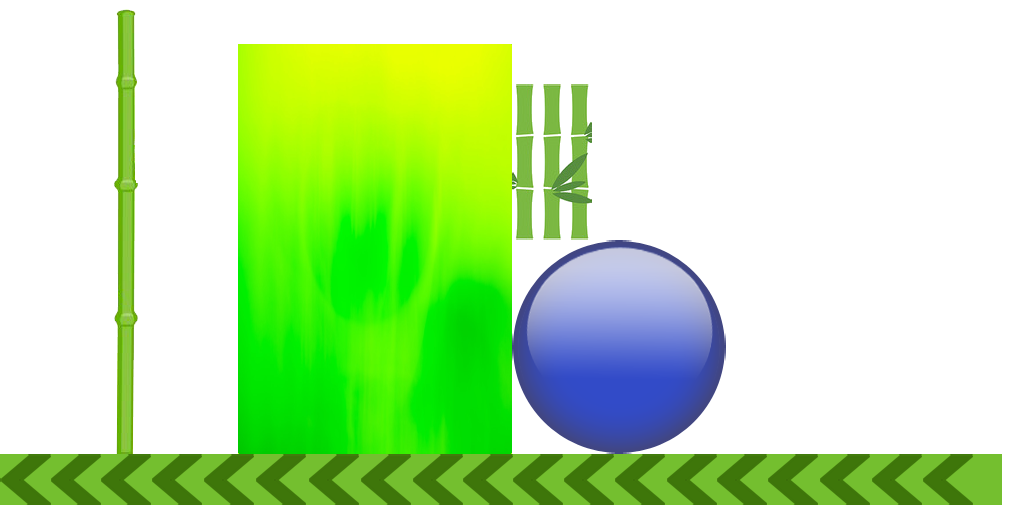
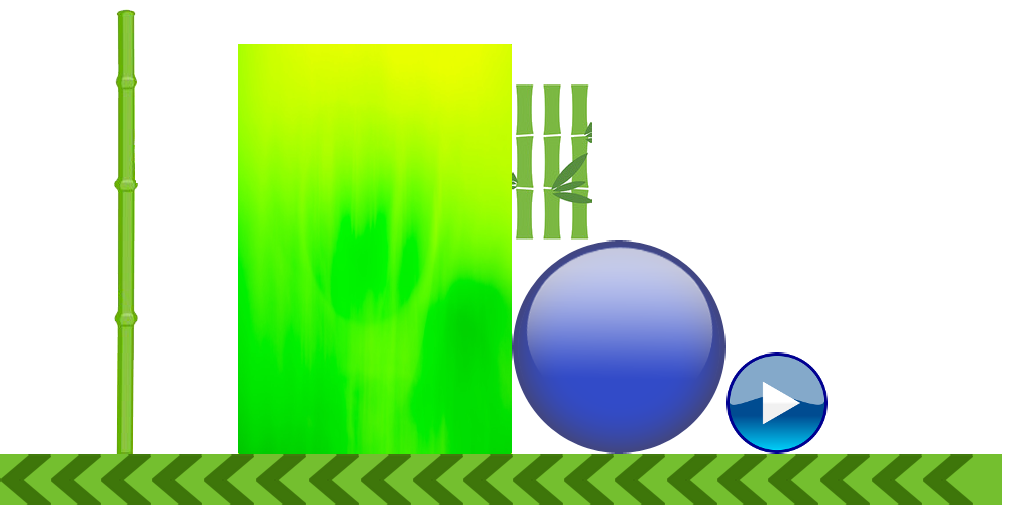
MainScreen added.

Changed region(s): [[0.6875, 0.6875, 0.8125, 0.9062]]

diff --git a/core/src/com/demonhunts/throughit/gameworld/GameRenderer.java b/core/src/com/demonhunts/throughit/gameworld/GameRenderer.java
@@ -128,19 +128,19 @@ public class GameRenderer {
     }
 
     private void drawPipes() {
-        batcher.draw(bar, pipe1.getX(), pipe1.getY(), pipe1.getWidth(),
+        batcher.draw(bar, pipe1.getX(), pipe1.getY(), pipe1.getWidth()+12,
                 pipe1.getHeight());
         batcher.draw(bar, pipe1.getX(), pipe1.getY() + pipe1.getHeight() + 45,
-                pipe1.getWidth(), midPointY +   (pipe1.getHeight() +45));
+                pipe1.getWidth()+12, midPointY +   (pipe1.getHeight() +45));
 
-        batcher.draw(bar, pipe2.getX(), pipe2.getY(), pipe2.getWidth(),
+        batcher.draw(bar, pipe2.getX(), pipe2.getY(), pipe2.getWidth()+12,
                 pipe2.getHeight());
         batcher.draw(bar, pipe2.getX(), pipe2.getY() + pipe2.getHeight() + 45,
-                pipe2.getWidth(), midPointY + (pipe2.getHeight()+45 ));
+                pipe2.getWidth()+12, midPointY + (pipe2.getHeight()+45 ));
 
-        batcher.draw(bar, pipe3.getX(), pipe3.getY(), pipe3.getWidth(),
+        batcher.draw(bar, pipe3.getX(), pipe3.getY(), pipe3.getWidth()+12,
                 pipe3.getHeight());
         batcher.draw(bar, pipe3.getX(), pipe3.getY() + pipe3.getHeight() + 45,
-                pipe3.getWidth(), midPointY +  (pipe3.getHeight() +45));
+                pipe3.getWidth()+12, midPointY +  (pipe3.getHeight() +45));
     }
 }

diff --git a/core/src/com/demonhunts/throughit/helpers/AssetLoader.java b/core/src/com/demonhunts/throughit/helpers/AssetLoader.java
@@ -14,7 +14,7 @@ public class AssetLoader {
 
     public static TextureAtlas atlas;
 
-    public static TextureRegion dot;
+    public static TextureRegion dot,playbutton;
     public static TextureRegion bar;
 
     public static Preferences prefs;
@@ -36,6 +36,9 @@ public class AssetLoader {
         atlas = new TextureAtlas("images.pack");
         dot = atlas.findRegion("dot");
         dot.flip(false, true);
+
+        playbutton = atlas.findRegion("playButton");
+
 
         bg = atlas.findRegion("back");
         bg.flip(false, true);

diff --git a/core/src/com/demonhunts/throughit/ThroughIt.java b/core/src/com/demonhunts/throughit/ThroughIt.java
@@ -3,13 +3,14 @@ package com.demonhunts.throughit;
 import com.badlogic.gdx.Game;
 import com.demonhunts.throughit.helpers.AssetLoader;
 import com.demonhunts.throughit.screens.GameScreen;
+import com.demonhunts.throughit.screens.MainScreen;
 
 public class ThroughIt extends Game {
 
     @Override
     public void create() {
         AssetLoader.load();
-        setScreen(new GameScreen());
+        setScreen(new MainScreen());
     }
 
     @Override
